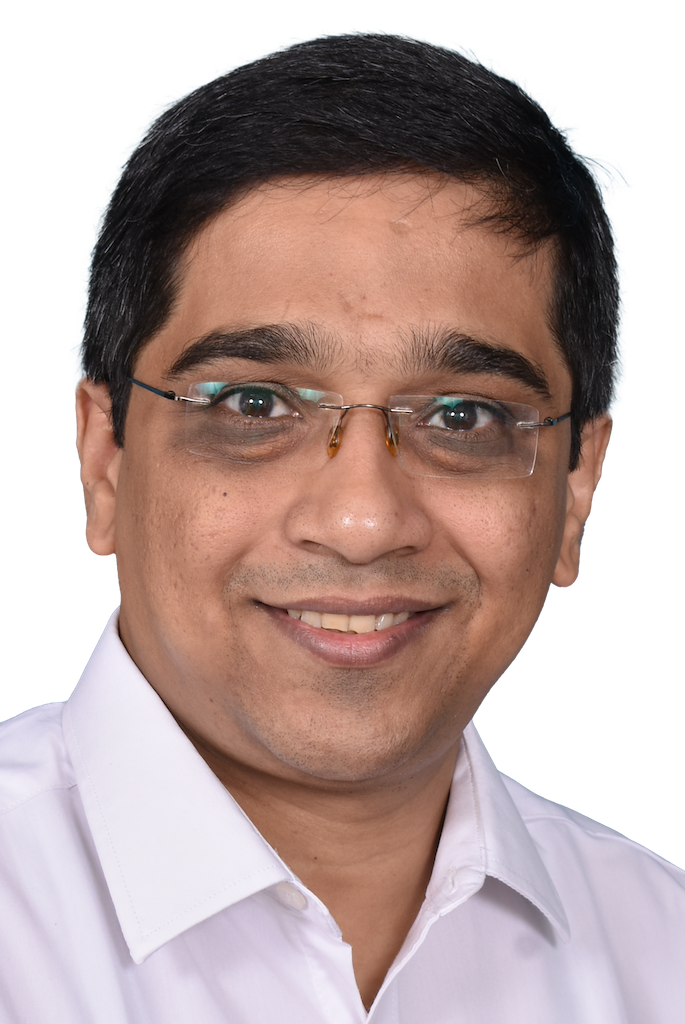
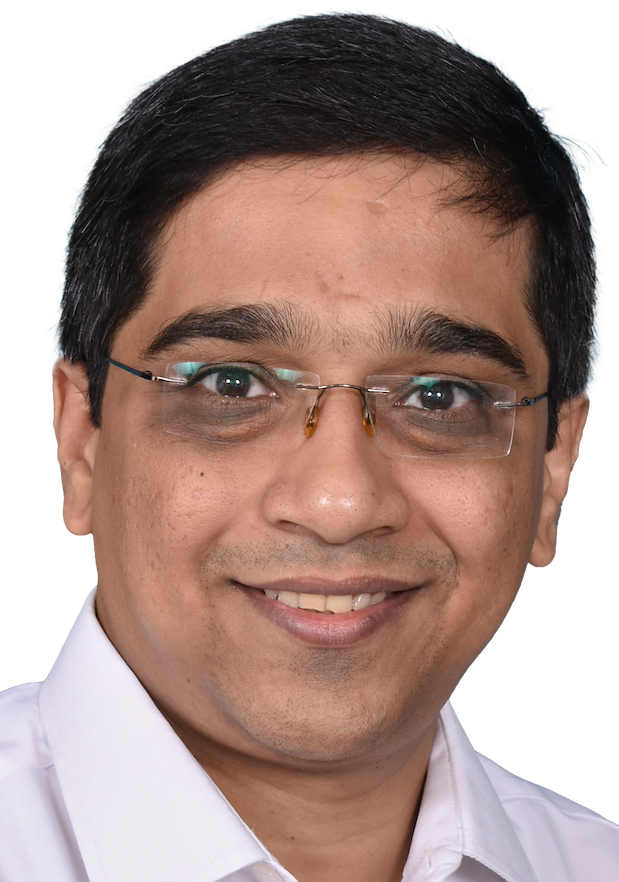
Update primary domain to icdds.in

diff --git a/participants.html b/participants.html
@@ -361,7 +361,8 @@
                 </div>
 
                 <div class="participant-card" id="james-meiring">
-                    <div class="participant-avatar">JM</div>
+                    <div class="participant-avatar"><img src="assets/participants/james-meiring.jpg"
+                            alt="James Meiring"></div>
                     <div class="participant-info">
                         <h3>James Meiring</h3>
                         <p>University of Liverpool</p>
@@ -371,7 +372,8 @@
                 </div>
 
                 <div class="participant-card" id="james-platts-mills">
-                    <div class="participant-avatar">JP</div>
+                    <div class="participant-avatar"><img src="assets/participants/james-platts-mills.jpg"
+                            alt="James Platts-Mills"></div>
                     <div class="participant-info">
                         <h3>James Platts-Mills</h3>
                         <p>University of Virginia, USA</p>
@@ -650,7 +652,8 @@
                 </div>
 
                 <div class="participant-card" id="patty-pavlinac">
-                    <div class="participant-avatar">PP</div>
+                    <div class="participant-avatar"><img src="assets/participants/patty-pavlinac.jpg"
+                            alt="Patty Pavlinac"></div>
                     <div class="participant-info">
                         <h3>Patty Pavlinac</h3>
                         <p>University of Washington, USA</p>
@@ -817,7 +820,8 @@
                 </div>
 
                 <div class="participant-card" id="sofia-donovan">
-                    <div class="participant-avatar">SD</div>
+                    <div class="participant-avatar"><img src="assets/participants/sofia-donovan.jpg"
+                            alt="Sofia Donovan"></div>
                     <div class="participant-info">
                         <h3>Sofia Donovan</h3>
                         <p>University of Washington, USA</p>
@@ -891,7 +895,8 @@
                 </div>
 
                 <div class="participant-card" id="tintu-varghese">
-                    <div class="participant-avatar">TV</div>
+                    <div class="participant-avatar"><img src="assets/participants/tintu-varghese.png"
+                            alt="Tintu Varghese"></div>
                     <div class="participant-info">
                         <h3>Tintu Varghese</h3>
                         <p>Christian Medical College</p>

diff --git a/css/styles.css b/css/styles.css
@@ -349,15 +349,66 @@ img {
   object-position: center;
 }
 
-#gagandeep-kang .participant-avatar img,
-#venkat-mohan .participant-avatar img {
-  object-position: 50% 15%;
+/* headshot adjustments */
+#gagandeep-kang .participant-avatar img {
+  object-position: 30% 1%;
+  transform: scale(0.91);
 }
 
-#jacob-john .participant-avatar img {
-  object-position: 50% 15%;
-  transform: scale(0.9);
-  /* Zoom out a bit */
+#venkat-mohan .participant-avatar img {
+  object-position: 50% 20%;
+  transform: scale(1.2);
+}
+
+
+#tintu-varghese .participant-avatar img {
+  object-position: 50% 40%;
+  transform: scale(1.8);
+}
+
+#patty-pavlinac .participant-avatar img {
+  object-position: 50% 5%;
+  transform: scale(1.6);
+}
+
+#sofia-donovan .participant-avatar img {
+  object-position: 50% 0%;
+  transform: scale(1.5);
+}
+
+#elizabeth-mcquade .participant-avatar img {
+  object-position: 50% 35%;
+  transform: scale(1.3);
+}
+
+#goitom-weldegebriel .participant-avatar img {
+  object-position: 50% 35%;
+  transform: scale(1.1);
+}
+
+#josh-colston .participant-avatar img {
+  object-position: 50% 5%;
+  transform: scale(1.4);
+}
+
+#jerome-ateudjieu .participant-avatar img {
+  object-position: 45% 10%;
+  transform: scale(1.2);
+}
+
+#james-meiring .participant-avatar img {
+  object-position: 50% 35%;
+  transform: scale(1.0);
+}
+
+#james-platts-mills .participant-avatar img {
+  object-position: 50% 35%;
+  transform: scale(1.1);
+}
+
+#paul-kelly .participant-avatar img {
+  object-position: 50% 35%;
+  transform: scale(1.0);
 }
 
 .participant-info h3 {
